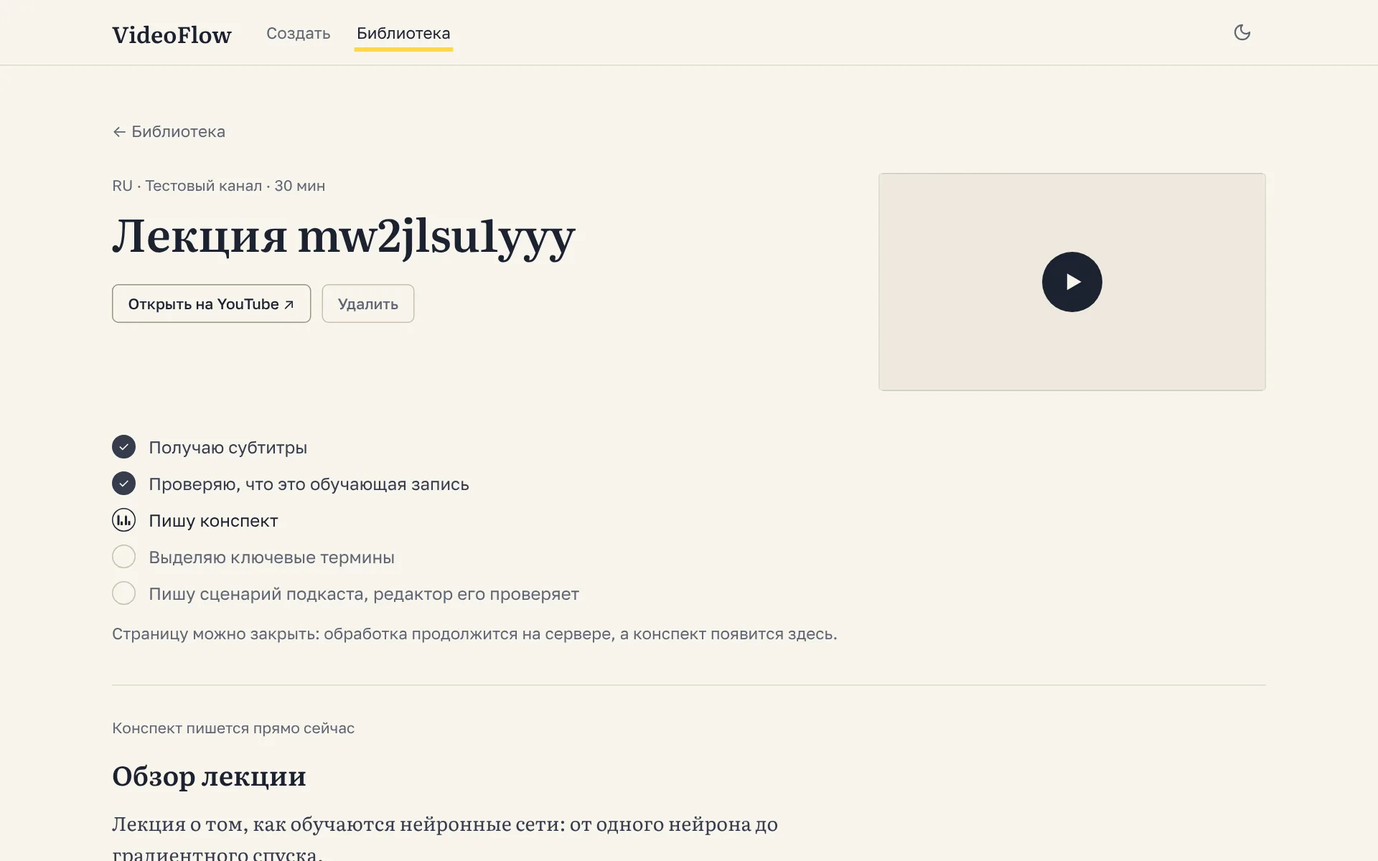
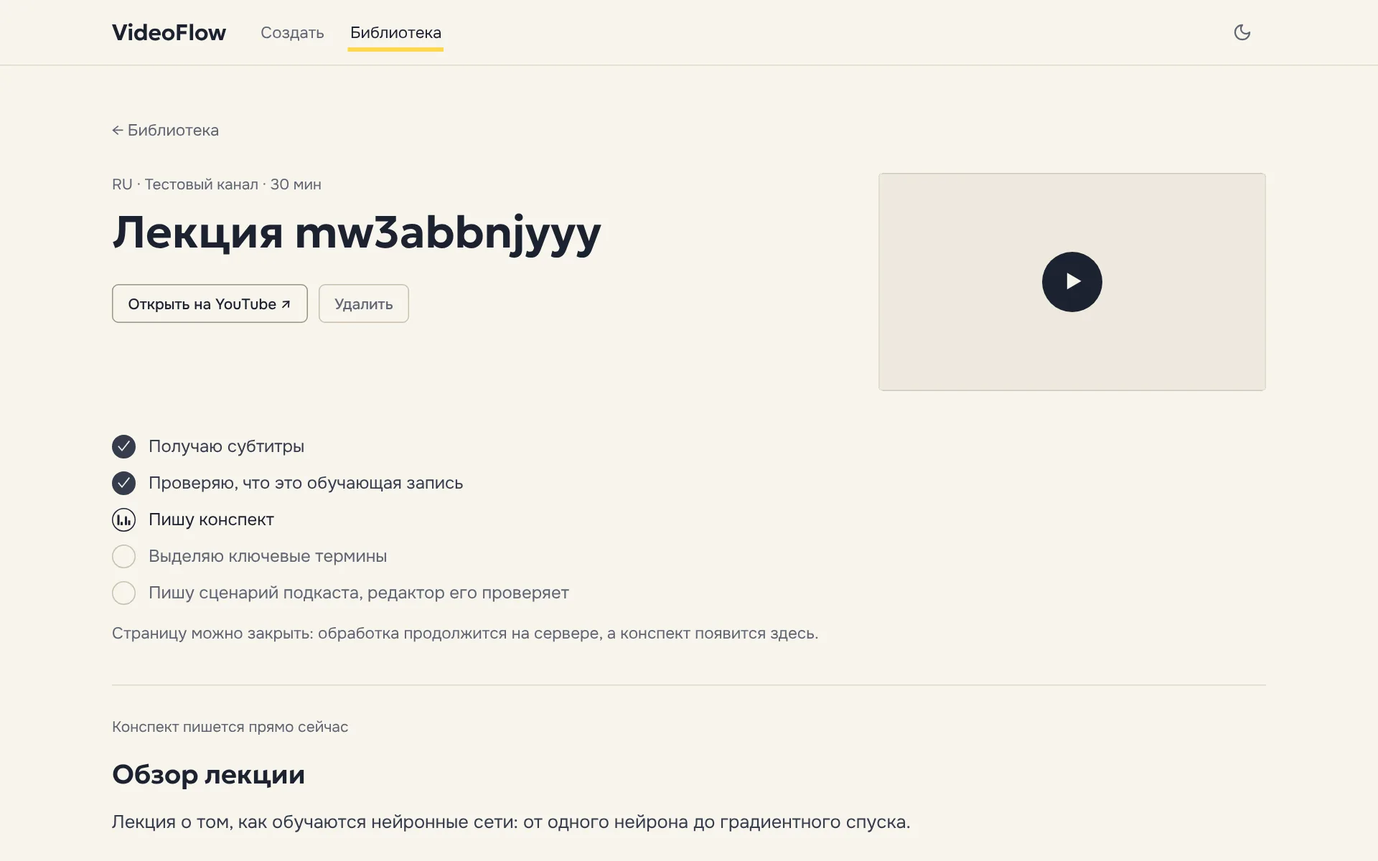
Fonts with character and motion that marks what just happened
- Geologica (with a touch of its sharpness axis) for headings and list
  titles, Onest for the material and the interface; both drawn with full
  Cyrillic. Literata and Golos Text are gone.
- The highlighter now moves: it draws under the headline word and the key
  terms, under a newly opened tab or menu item, under a list title on
  hover, and marks a defined term as the reader scrolls to it (the text is
  never hidden while waiting for the scroll)
- Tab content and revealed answers settle in, a finished processing step
  ticks, buttons press, the theme cross-fades; all off with reduced motion
- DESIGN.md (MOTION 2, font reasons), README text and screenshots updated

diff --git a/frontend/app/globals.css b/frontend/app/globals.css
@@ -51,6 +51,7 @@ button, input, textarea { font: inherit; color: inherit; }
 ::selection { background: var(--marker); color: var(--ink); }
 :focus-visible { outline: 2px solid var(--link); outline-offset: 2px; border-radius: 2px; }
 h1, h2, h3 { margin: 0; color: var(--ink); }
+.brand, h1, h2, h3, .row-title, .quiz-q, .q { font-variation-settings: "SHRP" 40; letter-spacing: -0.01em; }
 
 /* every enabled control shows the hand; disabled ones say so */
 a[href], button:not(:disabled), summary, label[for], [role="tab"], .upload { cursor: pointer; }
@@ -59,7 +60,7 @@ button:disabled, [aria-disabled="true"], .upload[aria-disabled] { cursor: not-al
 .wrap { width: 100%; max-width: 1120px; margin: 0 auto; padding: 0 24px; } /* width: main is a flex item */
 .page { padding-top: 48px; padding-bottom: 96px; }
 .muted { color: var(--muted); }
-.serif { font-family: var(--font-serif), Georgia, serif; }
+.display { font-family: var(--font-display), sans-serif; }
 .num { font-variant-numeric: tabular-nums; }
 .label { margin: 0; font: 600 15px/1.4 var(--font-sans), sans-serif; color: var(--ink); }
 .meta { margin: 0; font-size: 14px; color: var(--muted); }
@@ -67,7 +68,7 @@ button:disabled, [aria-disabled="true"], .upload[aria-disabled] { cursor: not-al
 /* header: a ruled line under the brand, like the top of a notebook page */
 .header { position: sticky; top: 0; z-index: 100; background: var(--paper); border-bottom: 1px solid var(--rule); }
 .navbar { display: flex; align-items: center; gap: 32px; height: 60px; }
-.brand { font: 600 21px/1 var(--font-serif), serif; color: var(--ink); text-decoration: none; }
+.brand { font: 600 21px/1 var(--font-display), sans-serif; color: var(--ink); text-decoration: none; }
 .nav { display: flex; gap: 24px; margin-right: auto; }
 .nav a { position: relative; padding: 6px 0; font-size: 15px; color: var(--muted); text-decoration: none; }
 .nav a:hover { color: var(--ink); }
@@ -102,7 +103,7 @@ button:disabled, [aria-disabled="true"], .upload[aria-disabled] { cursor: not-al
   display: inline-flex; align-items: center; justify-content: center; gap: 10px;
   height: 44px; padding: 0 18px; border: 1px solid var(--field-border); border-radius: 6px;
   background: transparent; color: var(--ink); font: 500 15px/1 var(--font-sans), sans-serif;
-  white-space: nowrap; text-decoration: none; transition: background-color 0.15s, border-color 0.15s, color 0.15s;
+  white-space: nowrap; text-decoration: none; transition: background-color 0.15s, border-color 0.15s, color 0.15s, transform 0.1s;
 }
 .btn:hover:not(:disabled) { background: var(--paper-sunk); }
 .btn:active:not(:disabled) { background: var(--rule); }
@@ -122,14 +123,14 @@ button:disabled, [aria-disabled="true"], .upload[aria-disabled] { cursor: not-al
 .field::placeholder { color: var(--muted); opacity: 1; }
 .field:focus-visible { outline-offset: 0; border-color: var(--link); }
 .field:disabled { color: var(--muted); background: var(--paper-sunk); }
-.textarea { height: auto; min-height: 220px; padding: 14px 16px; resize: vertical; font: 16px/1.6 var(--font-serif), serif; }
+.textarea { height: auto; min-height: 220px; padding: 14px 16px; resize: vertical; font: 16px/1.6 var(--font-sans), sans-serif; }
 
 .error { margin: 12px 0 0; color: var(--danger); font-size: 15px; }
 .error a { color: inherit; font-weight: 600; }
 
 /* notices: a framed note on raised paper */
 .notice { max-width: 680px; margin-top: 24px; padding: 18px 20px; border: 1px solid var(--rule-2); border-radius: 6px; background: var(--paper-raised); }
-.notice h3 { font: 600 18px/1.35 var(--font-serif), serif; }
+.notice h3 { font: 600 18px/1.35 var(--font-display), sans-serif; }
 .notice p { margin: 6px 0 0; color: var(--ink-2); }
 .notice .actions { margin-top: 14px; }
 .status { display: flex; align-items: center; gap: 10px; margin: 0; color: var(--ink-2); }
@@ -140,8 +141,8 @@ button:disabled, [aria-disabled="true"], .upload[aria-disabled] { cursor: not-al
 
 /* ---- home: the form in the column, what happens next in the margin ---- */
 .home { display: grid; grid-template-columns: minmax(0, 1fr) 300px; gap: 72px; align-items: start; }
-.intro h1 { max-width: 11em; font: 600 clamp(38px, 5.4vw, 58px)/1.06 var(--font-serif), serif; letter-spacing: -0.012em; }
-.lede { max-width: 54ch; margin: 20px 0 0; font: 19px/1.55 var(--font-serif), serif; color: var(--ink-2); }
+.intro h1 { max-width: 11em; font: 600 clamp(38px, 5.4vw, 58px)/1.06 var(--font-display), sans-serif; letter-spacing: -0.012em; }
+.lede { max-width: 54ch; margin: 20px 0 0; font: 19px/1.6 var(--font-sans), sans-serif; color: var(--ink-2); }
 
 .composer { max-width: 680px; margin-top: 36px; }
 .mode { display: inline-flex; padding: 3px; border: 1px solid var(--rule-2); border-radius: 6px; background: var(--paper-sunk); }
@@ -171,7 +172,7 @@ button:disabled, [aria-disabled="true"], .upload[aria-disabled] { cursor: not-al
 .margin p { margin: 6px 0 0; font-size: 15px; color: var(--muted); }
 .steps { margin: 18px 0 0; padding: 0; list-style: none; counter-reset: step; display: grid; gap: 16px; }
 .steps li { counter-increment: step; display: grid; grid-template-columns: 22px 1fr; gap: 0 8px; font-size: 15px; line-height: 1.5; color: var(--ink-2); }
-.steps li::before { content: counter(step); font: 600 15px/1.5 var(--font-serif), serif; color: var(--muted); font-variant-numeric: tabular-nums; }
+.steps li::before { content: counter(step); font: 600 15px/1.5 var(--font-display), sans-serif; color: var(--muted); font-variant-numeric: tabular-nums; }
 .steps b { color: var(--ink); font-weight: 600; }
 
 /* ---- lists of materials: ruled rows, not cards ---- */
@@ -179,8 +180,7 @@ button:disabled, [aria-disabled="true"], .upload[aria-disabled] { cursor: not-al
 .rows li { border-bottom: 1px solid var(--rule); }
 .row { display: grid; grid-template-columns: 112px minmax(0, 1fr) auto; gap: 18px; align-items: center; padding: 14px 8px; margin: 0 -8px; color: inherit; text-decoration: none; border-radius: 4px; }
 .row:hover { background: var(--paper-sunk); }
-.row:hover .row-title { text-decoration: underline; text-decoration-thickness: 1px; text-underline-offset: 0.18em; }
-.row-title { display: block; font: 600 18px/1.3 var(--font-serif), serif; color: var(--ink); }
+.row-title { display: inline; font: 600 18px/1.3 var(--font-display), sans-serif; color: var(--ink); }
 .row-meta { display: block; margin-top: 4px; font-size: 14px; color: var(--muted); }
 .row-side { font-size: 14px; color: var(--muted); text-align: right; white-space: nowrap; }
 .row .state { display: inline-flex; align-items: center; gap: 8px; color: var(--ink-2); }
@@ -196,7 +196,7 @@ button:disabled, [aria-disabled="true"], .upload[aria-disabled] { cursor: not-al
 
 /* library */
 .lib-head { display: flex; flex-wrap: wrap; align-items: flex-end; justify-content: space-between; gap: 20px; margin-bottom: 28px; }
-.lib-head h1 { font: 600 40px/1.1 var(--font-serif), serif; }
+.lib-head h1 { font: 600 40px/1.1 var(--font-display), sans-serif; }
 .lib-head .meta { margin-top: 8px; }
 .search .field { width: 320px; max-width: 100%; height: 44px; }
 .pager { display: flex; justify-content: space-between; align-items: center; gap: 16px; margin-top: 32px; }
@@ -206,7 +206,7 @@ button:disabled, [aria-disabled="true"], .upload[aria-disabled] { cursor: not-al
 .back { display: inline-block; margin-bottom: 28px; font-size: 15px; color: var(--muted); text-decoration: none; }
 .back:hover { color: var(--ink); text-decoration: underline; }
 .vhead { display: grid; grid-template-columns: minmax(0, 1fr) 360px; gap: 48px; align-items: start; }
-.vhead h1 { margin: 10px 0 24px; font: 600 clamp(28px, 3.6vw, 42px)/1.15 var(--font-serif), serif; letter-spacing: -0.01em; }
+.vhead h1 { margin: 10px 0 24px; font: 600 clamp(28px, 3.6vw, 42px)/1.15 var(--font-display), sans-serif; letter-spacing: -0.01em; }
 .vhead.solo { grid-template-columns: minmax(0, 1fr); }
 .vhead.solo h1 { max-width: 28ch; }
 .vhead .media { border-radius: 4px; overflow: hidden; }
@@ -224,7 +224,7 @@ button:disabled, [aria-disabled="true"], .upload[aria-disabled] { cursor: not-al
 .player-poster:hover .play-btn { background: var(--ink-2); }
 .player-close { position: absolute; top: 6px; right: 6px; z-index: 2; width: 32px; height: 32px; border: 0; border-radius: 50%; background: rgb(0 0 0 / 0.7); color: #fff; font-size: 14px; }
 .media-file { display: grid; gap: 12px; padding: 18px; border: 1px solid var(--rule); border-radius: 4px; background: var(--paper-raised); }
-.media-file-title { font: 600 16px/1.35 var(--font-serif), serif; color: var(--ink); overflow-wrap: anywhere; }
+.media-file-title { font: 600 16px/1.35 var(--font-display), sans-serif; color: var(--ink); overflow-wrap: anywhere; }
 .media-file audio { width: 100%; }
 .media-video { display: block; width: 100%; aspect-ratio: 16 / 9; background: #000; }
 
@@ -243,8 +243,8 @@ button:disabled, [aria-disabled="true"], .upload[aria-disabled] { cursor: not-al
 .notes { padding-left: 88px; }
 .terms { max-width: 66ch; margin: 0 0 40px; }
 .terms p { margin: 0 0 8px; font-size: 14px; color: var(--muted); }
-.terms ul { display: flex; flex-wrap: wrap; gap: 6px 14px; margin: 0; padding: 0; list-style: none; font: 17px/1.6 var(--font-serif), serif; color: var(--ink); }
-.terms li { padding: 0 3px; background: var(--marker); }
+.terms ul { display: flex; flex-wrap: wrap; gap: 6px 14px; margin: 0; padding: 0; list-style: none; font: 17px/1.6 var(--font-sans), sans-serif; color: var(--ink); }
+.terms li { padding: 0 3px; }
 .toc { position: sticky; top: 84px; max-height: calc(100vh - 110px); overflow-y: auto; padding-left: 18px; border-left: 1px solid var(--rule); }
 .toc p { margin: 0 0 8px; font-size: 14px; color: var(--muted); }
 .toc a { display: grid; grid-template-columns: auto 1fr; gap: 8px; padding: 5px 0; font-size: 14px; line-height: 1.35; color: var(--ink-2); text-decoration: none; }
@@ -252,8 +252,8 @@ button:disabled, [aria-disabled="true"], .upload[aria-disabled] { cursor: not-al
 .toc .t { color: var(--muted); font-variant-numeric: tabular-nums; }
 
 /* reading text */
-.prose { max-width: 66ch; font: 18px/1.65 var(--font-serif), Georgia, serif; color: var(--ink-2); overflow-wrap: break-word; }
-.prose h1, .prose h2, .prose h3 { font-family: var(--font-serif), serif; color: var(--ink); }
+.prose { max-width: 68ch; font: 17px/1.7 var(--font-sans), sans-serif; color: var(--ink-2); overflow-wrap: break-word; }
+.prose h1, .prose h2, .prose h3 { font-family: var(--font-display), sans-serif; color: var(--ink); }
 .prose h2 { position: relative; margin: 2.2em 0 0.6em; font-size: 25px; font-weight: 600; line-height: 1.25; scroll-margin-top: 84px; }
 .prose h3 { margin: 1.8em 0 0.5em; font-size: 20px; font-weight: 600; line-height: 1.3; }
 .prose > :first-child { margin-top: 0; }
@@ -279,8 +279,8 @@ button:disabled, [aria-disabled="true"], .upload[aria-disabled] { cursor: not-al
 .quiz-intro { max-width: 66ch; margin: 0 0 24px; color: var(--ink-2); }
 .quiz-list { max-width: 72ch; margin: 0; padding: 0; list-style: none; border-top: 1px solid var(--rule); }
 .quiz-item { display: grid; grid-template-columns: 40px minmax(0, 1fr); padding: 22px 0; border-bottom: 1px solid var(--rule); }
-.quiz-n { font: 600 19px/1.4 var(--font-serif), serif; color: var(--muted); font-variant-numeric: tabular-nums; }
-.quiz-q { margin: 0 0 14px; font: 600 19px/1.4 var(--font-serif), serif; color: var(--ink); }
+.quiz-n { font: 600 19px/1.4 var(--font-display), sans-serif; color: var(--muted); font-variant-numeric: tabular-nums; }
+.quiz-q { margin: 0 0 14px; font: 600 19px/1.4 var(--font-display), sans-serif; color: var(--ink); }
 .quiz-item .prose { font-size: 17px; }
 
 /* podcast script: set like a play */
@@ -288,7 +288,7 @@ button:disabled, [aria-disabled="true"], .upload[aria-disabled] { cursor: not-al
 .dialogue > div { display: contents; }
 .dialogue dt { font: 600 15px/1.75 var(--font-sans), sans-serif; color: var(--muted); }
 .dialogue dt.b { color: var(--link); }
-.dialogue dd { margin: 0; font: 17px/1.6 var(--font-serif), serif; color: var(--ink-2); }
+.dialogue dd { margin: 0; font: 17px/1.6 var(--font-sans), sans-serif; color: var(--ink-2); }
 
 .block { max-width: 680px; }
 .block > p { margin: 0 0 16px; color: var(--ink-2); }
@@ -299,14 +299,14 @@ button:disabled, [aria-disabled="true"], .upload[aria-disabled] { cursor: not-al
 .recs li { border-bottom: 1px solid var(--rule); }
 .recs a { display: grid; grid-template-columns: 1fr auto; gap: 2px 12px; padding: 14px 0; color: inherit; text-decoration: none; }
 .recs a:hover .rec-title { text-decoration: underline; }
-.rec-title { font: 17px/1.4 var(--font-serif), serif; color: var(--ink); }
+.rec-title { font: 17px/1.4 var(--font-display), sans-serif; color: var(--ink); }
 .rec-site { font-size: 14px; color: var(--muted); }
 .recs .ext { grid-row: span 2; align-self: center; color: var(--muted); }
 
 .chat { max-width: 780px; }
 .qa { padding: 28px 0; border-bottom: 1px solid var(--rule); }
 .qa:first-of-type { padding-top: 0; }
-.q { margin-bottom: 12px; font: 600 20px/1.35 var(--font-serif), serif; color: var(--ink); }
+.q { margin-bottom: 12px; font: 600 20px/1.35 var(--font-display), sans-serif; color: var(--ink); }
 .sources { display: flex; flex-wrap: wrap; align-items: baseline; gap: 4px 12px; margin-top: 4px; font-size: 14px; color: var(--muted); }
 .sources .ts { font-size: 14px; }
 .suggest { display: flex; flex-wrap: wrap; gap: 8px; margin: 16px 0 8px; }
@@ -337,7 +337,7 @@ button:disabled, [aria-disabled="true"], .upload[aria-disabled] { cursor: not-al
 
 /* login */
 .login { display: grid; gap: 14px; max-width: 440px; margin: 24px auto 0; }
-.login h1 { font: 600 34px/1.15 var(--font-serif), serif; }
+.login h1 { font: 600 34px/1.15 var(--font-display), sans-serif; }
 .login p { margin: 0; color: var(--ink-2); }
 .login .field { width: 100%; }
 
@@ -390,6 +390,32 @@ button:disabled, [aria-disabled="true"], .upload[aria-disabled] { cursor: not-al
   .signin-text { display: none; }
   .signin-icon { display: block; }
 }
+
+/* ---- motion (MOTION 2 in DESIGN.md): every movement marks something that just happened ---- */
+:root { --ease-out: cubic-bezier(0.22, 1, 0.36, 1); }
+::view-transition-old(root), ::view-transition-new(root) { animation-duration: 0.3s; }
+/* the highlighter draws its stroke left to right: the headline once, the key terms one after another */
+@keyframes mark-draw { from { background-size: 0% 100%; } }
+.hl, .terms li { background: linear-gradient(var(--marker), var(--marker)) no-repeat left / 100% 100%; }
+.hl { padding: 0 0.06em; margin: 0 -0.06em; color: inherit; animation: mark-draw 0.8s var(--ease-out) 0.2s backwards; }
+.terms li { animation: mark-draw 0.5s var(--ease-out) backwards; animation-delay: calc(0.15s + var(--i, 0) * 70ms); }
+/* a defined term is marked as you read down to it; the text itself never waits for the scroll */
+@supports (animation-timeline: view()) {
+  .prose li > strong:first-child:not(.lead) { background: linear-gradient(var(--marker), var(--marker)) no-repeat left / 100% 100%; animation: mark-draw linear backwards; animation-timeline: view(); animation-range: entry 0% cover 35%; }
+}
+/* where you are: the marker under the menu item and the tab is drawn on arrival */
+@keyframes stroke { from { transform: scaleX(0); } }
+.nav a[aria-current="page"]::after, .tab[aria-selected="true"]::after { transform-origin: left; animation: stroke 0.35s var(--ease-out) backwards; }
+/* a list title gets the marker under the pointer */
+.row-title { background: linear-gradient(var(--marker), var(--marker)) no-repeat left 0 bottom 0.08em / 0% 0.32em; transition: background-size 0.3s var(--ease-out); }
+.row:hover .row-title, .row:focus-visible .row-title { background-size: 100% 0.32em; }
+/* a tab's content and a revealed answer settle in instead of popping */
+@keyframes settle { from { opacity: 0; transform: translateY(6px); } }
+.panel:not([hidden]), .answer, .notice, .live-summary { animation: settle 0.3s var(--ease-out) backwards; }
+/* a finished step ticks */
+@keyframes tick { from { transform: scale(0.5); } }
+.stages li[data-state="done"] .stage-mark { animation: tick 0.35s var(--ease-out) backwards; }
+.btn:active:not(:disabled) { transform: translateY(1px); }
 
 @media (prefers-reduced-motion: reduce) {
   *, *::before, *::after { animation: none !important; transition: none !important; scroll-behavior: auto !important; }

diff --git a/frontend/app/layout.tsx b/frontend/app/layout.tsx
@@ -1,14 +1,14 @@
 import type { Metadata } from "next";
-import { Golos_Text, Literata } from "next/font/google";
+import { Geologica, Onest } from "next/font/google";
 import { cookies } from "next/headers";
 import { authRequired, SESSION_COOKIE, validSession } from "@/lib/session";
 import Header from "./header";
 import "./globals.css";
 
-// Reasons for both faces are in DESIGN.md: Literata is made for long reading and carries the material itself,
-// Golos Text was made for Russian-language interfaces and carries the app around it.
-const serif = Literata({ subsets: ["latin", "cyrillic"], style: ["normal", "italic"], axes: ["opsz"], variable: "--font-serif" });
-const sans = Golos_Text({ subsets: ["latin", "cyrillic"], variable: "--font-sans" });
+// Reasons for both faces are in DESIGN.md: Geologica (headings) was drawn with Cyrillic as a first-class script and
+// its sharpness axis gives titles a pen-like edge; Onest was made for Russian-language interfaces and long reading.
+const display = Geologica({ subsets: ["latin", "cyrillic"], axes: ["SHRP"], variable: "--font-display" });
+const sans = Onest({ subsets: ["latin", "cyrillic"], variable: "--font-sans" });
 
 // runs before first paint so the page never flashes the wrong theme: saved choice, else the OS preference
 const THEME_SCRIPT = `try{document.documentElement.dataset.theme=localStorage.getItem("theme")||(matchMedia("(prefers-color-scheme: dark)").matches?"dark":"light")}catch(e){}`;
@@ -22,7 +22,7 @@ export default async function RootLayout({ children }: LayoutProps<"/">) {
   // "off": no APP_PASSWORD, nothing to sign in to
   const auth = !authRequired() ? "off" : validSession((await cookies()).get(SESSION_COOKIE)?.value) ? "in" : "out";
   return (
-    <html lang="ru" className={`${serif.variable} ${sans.variable}`} suppressHydrationWarning>
+    <html lang="ru" className={`${display.variable} ${sans.variable}`} suppressHydrationWarning>
       <head>
         <script dangerouslySetInnerHTML={{ __html: THEME_SCRIPT }} />
       </head>

diff --git a/frontend/app/videos/[id]/panels.tsx b/frontend/app/videos/[id]/panels.tsx
@@ -1,6 +1,6 @@
 "use client";
 
-import { useEffect, useRef, useState } from "react";
+import { useEffect, useRef, useState, type CSSProperties } from "react";
 import { api, ApiError, askStream, type Answer, type Job, type Material, type Recs, type VideoInfo } from "@/lib/api";
 import Eq from "../../eq";
 import ErrorText from "../../error-text";
@@ -50,8 +50,8 @@ export function Summary({ video, onRegenerate, busy }: { video: VideoInfo; onReg
           <div className="terms">
             <p>Ключевые термины</p>
             <ul>
-              {video.keywords.map((k) => (
-                <li key={k}>{k}</li>
+              {video.keywords.map((k, i) => (
+                <li key={k} style={{ "--i": i } as CSSProperties}>{k}</li>
               ))}
             </ul>
           </div>
@@ -106,7 +106,7 @@ async function streamAnswer(id: string, q: string, history: { q: string; a: stri
 
 function AnswerView({ a, material, live }: { a: Answer; material: Material; live?: boolean }) {
   return (
-    <div>
+    <div className="answer">
       {a.answer ? <Markdown text={a.answer} material={material} /> : <p className="status"><Eq /> Ищу ответ…</p>}
       {live && a.answer && <span className="live-caret" aria-hidden />}
       {a.sources.length > 0 && (

diff --git a/frontend/app/header.tsx b/frontend/app/header.tsx
@@ -12,10 +12,15 @@ const NAV = [
 function toggleTheme() {
   // the pre-paint script in layout.tsx already set data-theme on <html>
   const next = document.documentElement.dataset.theme === "dark" ? "light" : "dark";
-  document.documentElement.dataset.theme = next;
-  try {
-    localStorage.setItem("theme", next);
-  } catch {}
+  const apply = () => {
+    document.documentElement.dataset.theme = next;
+    try {
+      localStorage.setItem("theme", next);
+    } catch {}
+  };
+  // a short cross-fade, so the page changes colour instead of flashing
+  if (!document.startViewTransition || matchMedia("(prefers-reduced-motion: reduce)").matches) return apply();
+  document.startViewTransition(apply);
 }
 
 export default function Header({ auth }: { auth: "off" | "in" | "out" }) {

diff --git a/frontend/app/home.tsx b/frontend/app/home.tsx
@@ -69,7 +69,9 @@ export default function Home({ examples }: { examples: VideoListItem[] }) {
     <div className="home">
       <div>
         <section className="intro">
-          <h1>Конспект лекции, статьи или PDF</h1>
+          <h1>
+            <mark className="hl">Конспект</mark> лекции, статьи или PDF
+          </h1>
           <p className="lede">
             Вставьте ссылку на видео, подкаст или статью либо сам текст. Получится конспект с таймкодами, вопросы для
             самопроверки, подкаст на два голоса и ответы на вопросы по материалу.

diff --git a/frontend/DESIGN.md b/frontend/DESIGN.md
@@ -1,8 +1,8 @@
 # Направление дизайна VideoFlow
 
-Прочтение: **инструмент для учёбы (экраны приложения, не лендинг) для русскоязычных студентов, в языке печатного конспекта, шкалы ENERGY 1 / RHYTHM 2 / MOTION 1.**
+Прочтение: **инструмент для учёбы (экраны приложения, не лендинг) для русскоязычных студентов, в языке печатного конспекта, шкалы ENERGY 1 / RHYTHM 2 / MOTION 2.**
 
-Главное, что человек делает в приложении: читает конспект и проверяет себя. Поэтому дизайн служит чтению, а характер ему дают типографика, маркер и поля, а не украшения.
+Главное, что человек делает в приложении: читает конспект и проверяет себя. Поэтому дизайн служит чтению, а характер ему дают типографика, маркер и поля, а не украшения. Движение повторяет тот же мотив: маркер проводит черту.
 
 ## Шкалы
 
@@ -10,7 +10,7 @@
 |---|---|---|
 | ENERGY | 1, спокойно | Долгое чтение и учёба; ничто не должно спорить с текстом. |
 | RHYTHM | 2, ровно с отступлениями | На главной форма и пояснение на полях стоят в две колонки, библиотека идёт списком, конспект с полями и оглавлением: экраны устроены по своему содержанию. |
-| MOTION | 1, только отклик на наведение и фокус | Движение оставлено там, где идёт реальная работа: индикатор обработки, каретка при написании конспекта, полоса прогресса озвучки, подсветка абзаца после перехода по ссылке. |
+| MOTION | 2, переходы с поводом | Каждое движение отмечает событие: маркер проводит черту под главным словом заголовка и по ключевым терминам, рисуется под новой вкладкой и пунктом меню, подчёркивает строку списка под курсором и отмечает термин в определении, когда до него доходит чтение. Содержимое вкладки и открытый ответ мягко появляются, законченный шаг обработки «отщёлкивается», тема меняется плавным переходом. Бесконечных циклов нет, кроме индикатора идущей работы; с «уменьшить движение» всё отключается. |
 
 ## Мотив
 
@@ -40,11 +40,11 @@
 
 ## Шрифты
 
-- **Literata** для текста материала и заголовков. Её делали для долгого чтения с экрана (Google Play Книги), у неё хорошая кириллица и оптический размер: крупные заголовки и мелкий текст одной гарнитурой выглядят каждый как надо. Книжный шрифт отделяет «материал» от «интерфейса».
-- **Golos Text** для интерфейса: кнопок, меню, подписей, метаданных. Его делали для русскоязычных интерфейсов (Госуслуги), он разборчив в мелком кегле.
-- Моноширинного шрифта нет: таймкоды набраны табличными цифрами Golos Text, чтобы столбцы времени выравнивались.
+- **Geologica** для заголовков, названия и заголовков списков. Её рисовали с кириллицей как основной письменностью, а ось «острота» (SHRP 40) даёт буквам лёгкий срез, как у пера: заголовки звучат по-своему, а не как стандартный гротеск.
+- **Onest** для текста материала и интерфейса. Его делали для русскоязычных интерфейсов, он спокойный и разборчив и в длинном тексте, и в мелких подписях.
+- Моноширинного шрифта нет: таймкоды набраны табличными цифрами, чтобы столбцы времени выравнивались.
 
-Без растянутых прописных подписей и без отрицательного трекинга в книжном тексте.
+Без растянутых прописных подписей.
 
 ## Сетка и отступы
 
@@ -61,4 +61,4 @@
 
 ## Чего здесь нет намеренно
 
-Градиентов, свечений, точечной сетки на фоне, размытия под шапкой, «печатающегося» заголовка, появления блоков при прокрутке, подъёма карточек при наведении, бенто-сетки, выдуманных цифр в примерах и длинного тире в текстах интерфейса.
+Градиентов, свечений, точечной сетки на фоне, размытия под шапкой, «печатающегося» заголовка, блоков, которые прячутся до прокрутки, подъёма карточек при наведении, бенто-сетки, выдуманных цифр в примерах и длинного тире в текстах интерфейса.

diff --git a/README.md b/README.md
@@ -462,7 +462,7 @@ curl -X POST http://localhost:8000/videos/VIDEO_ID/qa -H "Authorization: Bearer 
 
 Интерфейс написан на **Next.js** (`frontend/`). Направление дизайна и причина каждого решения записаны в [`frontend/DESIGN.md`](frontend/DESIGN.md), разбор прежней версии по правилам [antislop](https://github.com/miqdadbadjuber/anti-slop) лежит в [`docs/design-audit.md`](docs/design-audit.md).
 
-Дизайн устроен как печатный конспект: бумага и чернила, один акцент (жёлтый маркер на главном), таймкоды и номера абзацев на полях. Текст материала набран Literata (шрифт для долгого чтения), интерфейс Golos Text (шрифт для русскоязычных интерфейсов).
+Дизайн устроен как печатный конспект: бумага и чернила, один акцент (жёлтый маркер на главном), таймкоды и номера абзацев на полях. Заголовки набраны Geologica, текст и интерфейс Onest; оба шрифта сделаны с полноценной кириллицей. Анимации повторяют мотив маркера: он проводит черту под главным, под новой вкладкой и строкой под курсором.
 
 ### Создать
 - Поле для ссылки на первом экране, переключатель «Ссылка / Текст или файл»: вставка текста с необязательным названием или загрузка PDF, TXT, MD
@@ -492,7 +492,7 @@ curl -X POST http://localhost:8000/videos/VIDEO_ID/qa -H "Authorization: Bearer 
 ### Темы и доступность
 - Светлая «бумажная» и тёмная тема; при первом визите берётся тема системы, выбор сохраняется
 - Весь текст проходит контраст WCAG AA в обеих темах, у всех полей видимые подписи, фокус с клавиатуры виден везде
-- Движение только там, где идёт работа (индикатор обработки, каретка при написании конспекта, прогресс озвучки); с «уменьшить движение» в системе отключается и оно
+- Движение отмечает события: маркер прорисовывается под терминами, вкладками и строками, содержимое вкладок мягко появляется, тема меняется плавно; с «уменьшить движение» в системе анимации отключаются
 
 ---
 
